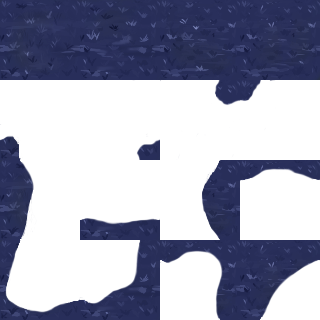
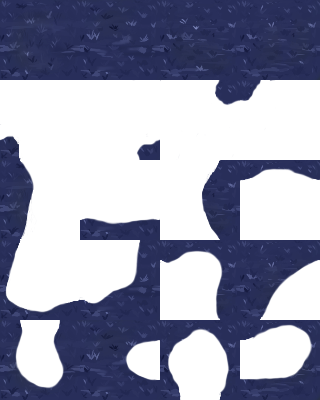
even smoother map

diff --git a/Assets/Map.cs b/Assets/Map.cs
@@ -140,7 +140,8 @@ public class Map
     {
         Level level = new Level();
 
-        float[] values = { 0, 0.25f, 0.5f, 0.75f };
+        float[] valuesX = { 0, 0.25f, 0.5f, 0.75f };
+        float[] valuesY = { 0, 0.2f, 0.4f, 0.6f, 0.8f };
         var verts = new List<Vector3>();
         List<int>[] tris = {
             new List<int>(),
@@ -195,10 +196,10 @@ public class Map
                 tris[section].Add(offset + 2);
                 tris[section].Add(offset + 3);
 
-                uvs.Add(new Vector2(0 + values[typeX], 0.75f));
-                uvs.Add(new Vector2(0.25f + values[typeX], 0.75f));
-                uvs.Add(new Vector2(0 + values[typeX], 1));
-                uvs.Add(new Vector2(0.25f + values[typeX], 1));
+                uvs.Add(new Vector2(0 + valuesX[typeX], valuesY[valuesY.Length - 1]));
+                uvs.Add(new Vector2(valuesX[1] + valuesX[typeX], valuesY[valuesY.Length - 1]));
+                uvs.Add(new Vector2(0 + valuesX[typeX], 1));
+                uvs.Add(new Vector2(valuesX[1] + valuesX[typeX], 1));
 
                 offset += 4;
             }
@@ -218,6 +219,27 @@ public class Map
                     Matrix mat = samples.around(x, y, s);
 
                     if (mat.matches(
+                        0, 0, 0,
+                        1, 0, 1,
+                        1, 1, 1
+                    )) frame = 16;
+                    else if (mat.matches(
+                        1, 1, 0,
+                        1, 0, 0,
+                        1, 1, 0
+                    )) frame = 17;
+                    else if (mat.matches(
+                        1, 1, 1,
+                        1, 0, 1,
+                        0, 0, 0
+                    )) frame = 18;
+                    else if (mat.matches(
+                        0, 1, 1,
+                        0, 0, 1,
+                        0, 1, 1
+                    )) frame = 19;
+
+                    else if (mat.matches(
                         0, 0, 0,
                         0, 0, 1,
                         0, 1, 1
@@ -283,10 +305,10 @@ public class Map
 
                     if (frame != -1)
                     {
-                        verts.Add(new Vector3(x, y, -5));
-                        verts.Add(new Vector3(x + 1, y, -5));
-                        verts.Add(new Vector3(x, y + 1, -5));
-                        verts.Add(new Vector3(x + 1, y + 1, -5));
+                        verts.Add(new Vector3(x, y, -5f));
+                        verts.Add(new Vector3(x + 1, y, -5f));
+                        verts.Add(new Vector3(x, y + 1, -5f));
+                        verts.Add(new Vector3(x + 1, y + 1, -5f));
 
                         // tri 0
                         tris[s].Add(offset + 0);
@@ -298,13 +320,13 @@ public class Map
                         tris[s].Add(offset + 2);
                         tris[s].Add(offset + 3);
 
-                        int frameX = (int)frame % 4;
-                        int frameY = (int)frame / 4;
+                        int frameY = (int)frame / valuesX.Length;
+                        int frameX = (int)frame % valuesX.Length;
 
-                        uvs.Add(new Vector2(0 + values[frameX], 0 + values[3 - frameY]));
-                        uvs.Add(new Vector2(0.25f + values[frameX], 0 + values[3 - frameY]));
-                        uvs.Add(new Vector2(0 + values[frameX], 0.25f + values[3 - frameY]));
-                        uvs.Add(new Vector2(0.25f + values[frameX], 0.25f + values[3 - frameY]));
+                        uvs.Add(new Vector2(0          + valuesX[frameX], 0          + valuesY[valuesY.Length - 1 - frameY]));
+                        uvs.Add(new Vector2(valuesX[1] + valuesX[frameX], 0          + valuesY[valuesY.Length - 1 - frameY]));
+                        uvs.Add(new Vector2(0          + valuesX[frameX], valuesY[1] + valuesY[valuesY.Length - 1 - frameY]));
+                        uvs.Add(new Vector2(valuesX[1] + valuesX[frameX], valuesY[1] + valuesY[valuesY.Length - 1 - frameY]));
 
                         offset += 4;
 
